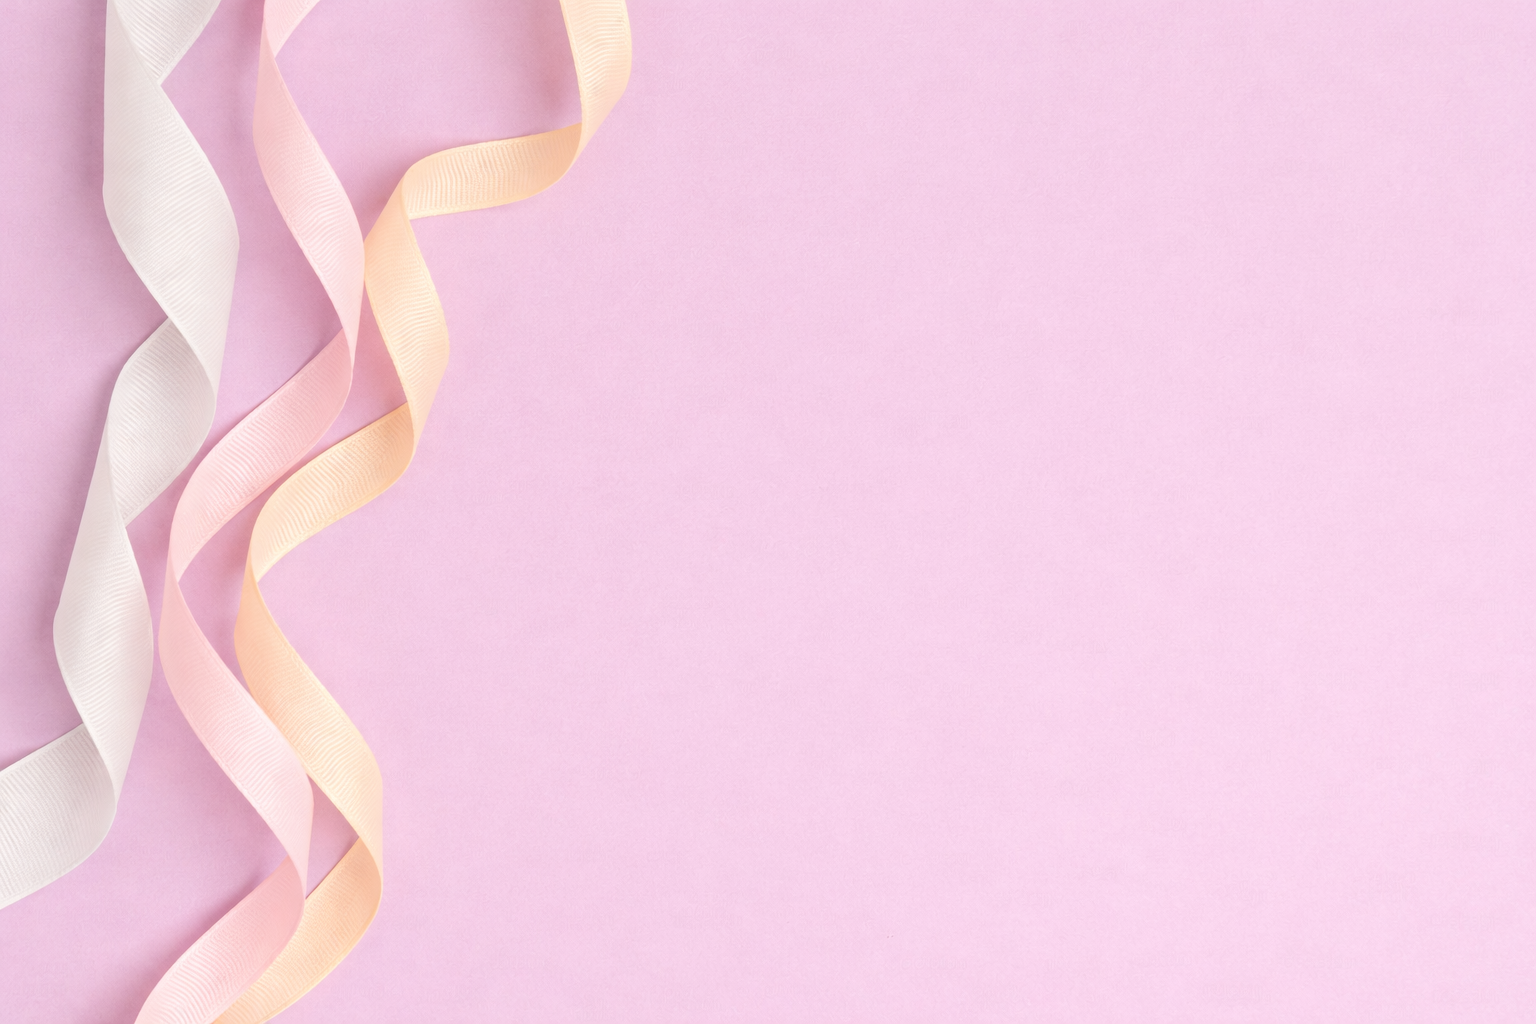
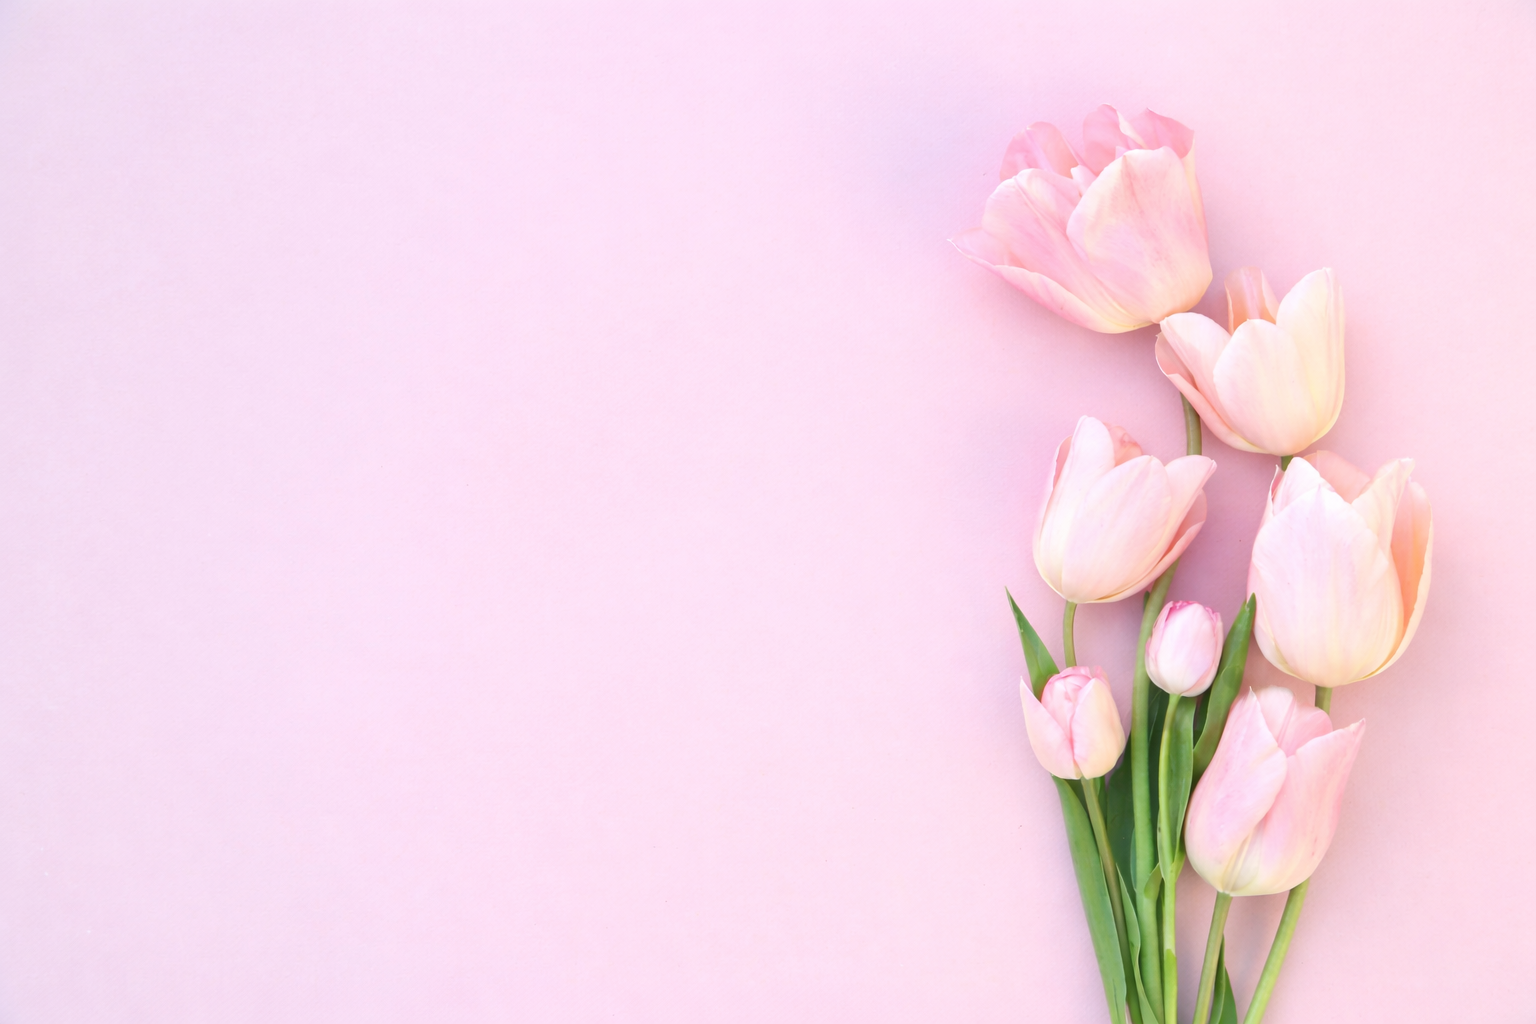
Nouveau fond fleurs tulipes + nouvelle photo sourcils + fix centrage cartes mobile
- Remplacement fond rubans roses par photo tulipes roses (values-bg.png)
- Nouvelle image sourcils
- Cartes features centrées sur mobile (max-width + margin auto)
- Icônes réduites sur mobile pour meilleur rendu

diff --git a/index.html b/index.html
@@ -1587,9 +1587,25 @@ section {
   .features-grid {
     grid-template-columns: 1fr;
     gap: 1.2rem;
+    max-width: 400px;
+    margin-left: auto;
+    margin-right: auto;
   }
   .feature-card {
     height: 180px;
+    width: 100%;
+  }
+  .feature-card-front,
+  .feature-card-back {
+    padding: 1.2rem;
+  }
+  .feature-icon {
+    width: 60px;
+    height: 60px;
+  }
+  .feature-icon svg {
+    width: 32px;
+    height: 32px;
   }
   .presta-visual-img {
     min-height: 200px;